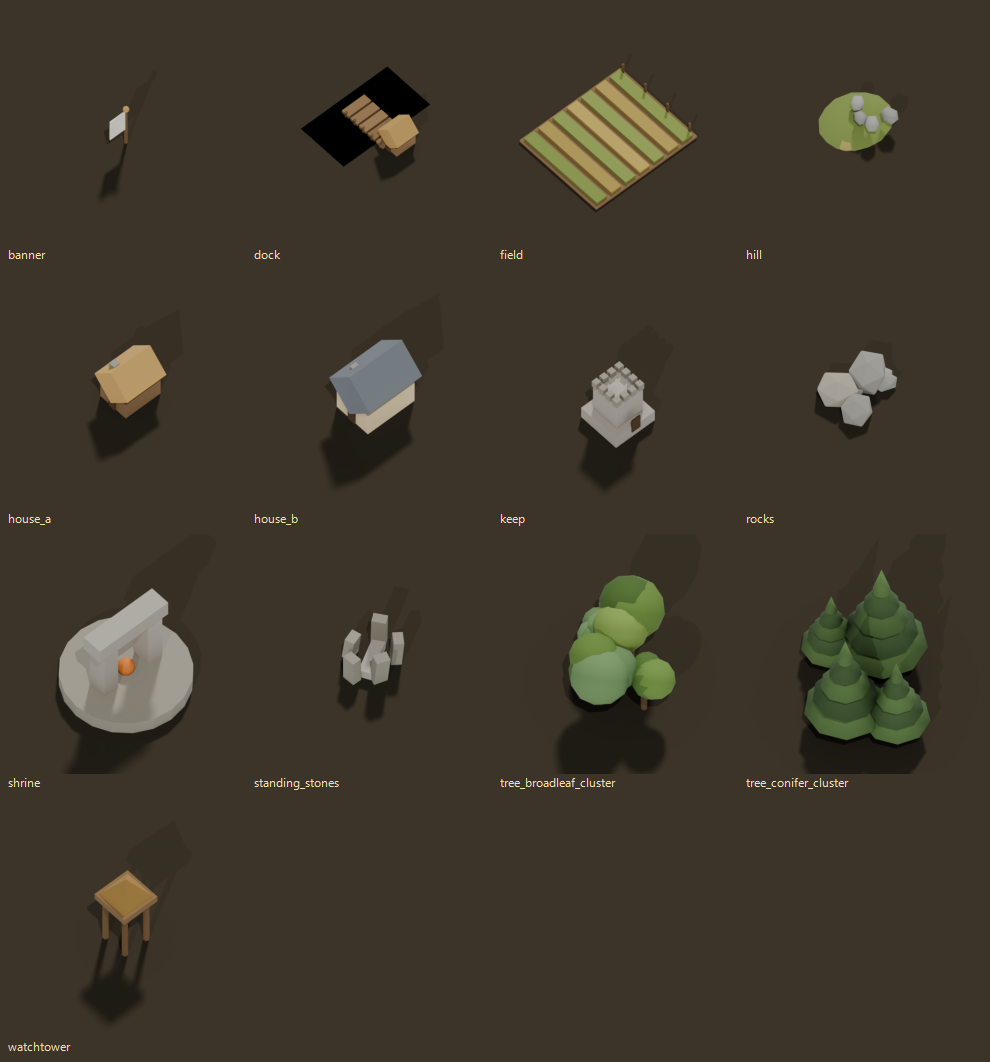
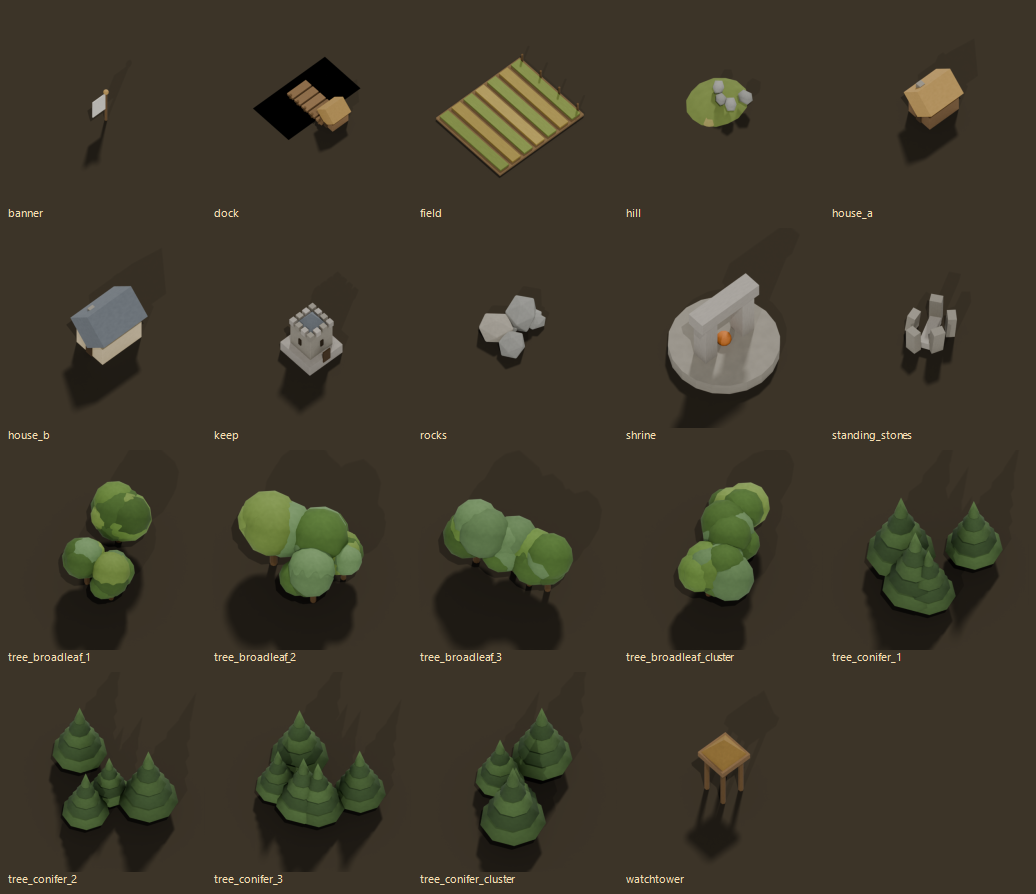
docs: Production Diorama Bridge V1 — state + in-engine bridge evidence
PROJECT_STATE milestone + DIORAMA_PROTOTYPE.md production-bridge section (run path, honest
controls, fallbacks, art pass). Evidence captured via the REAL overlay flow in-engine:
01 atlas → 02 region lens → 03 diorama bridge (same region) → 04 wild fallback, plus refreshed
standalone showcase + asset contact sheet.

diff --git a/docs/visual_pass/DIORAMA_PROTOTYPE.md b/docs/visual_pass/DIORAMA_PROTOTYPE.md
@@ -6,10 +6,39 @@ atlas* — and to honestly measure the gap. This is a **prototype**, not product
 direction and an asset pipeline, it does not ship North Star visuals.
 
 ## How to run it
-- In the viewer: press **F3** (Esc / "← Atlas" returns to the atlas).
-- Standalone: `<godot-mono> --path godot res://DioramaView.tscn`
-- Self-capture (writes `diorama_prototype.png` here, never touches the save):
-  `LM_DIORAMA_SHOT=<dir> <godot-mono> --path godot res://DioramaView.tscn`
+- **Production bridge (the real path):** inspect a region (or a site) in the atlas, then click
+  **"⛰ Enter the Diorama"** in the Region Lens. It opens as a **read-only overlay** over the live
+  world for that selected region. **Esc** or **"← Back to the Atlas"** closes it — the atlas,
+  follows, and save are untouched underneath (it is an overlay, never a scene swap).
+- **F3** opens the diorama for the currently selected region (or the most-built held region if
+  nothing is selected) — handy dev shortcut.
+- **Standalone/dev:** `<godot-mono> --path godot res://DioramaView.tscn` (builds its own seed-7
+  world). Self-capture: `LM_DIORAMA_SHOT=<dir> <godot-mono> --path godot res://DioramaView.tscn`.
+
+## Production Bridge V1 (2026-06-14)
+The sandboxed F3 prototype became an honest bridge for *any* region of the *live* world:
+- **Wired to the live world** — `DioramaView` now takes `SourceWorld` + `SourceRegionId` from
+  Main and renders the currently selected region at the live year (souls/tales/holder/harvest all
+  read live). No more seed-7-only.
+- **Entry/exit** — a "⛰ Enter the Diorama" button in the Region Lens (region & site context);
+  `Main.OpenDiorama`/`CloseDiorama` add/free it as a full-rect overlay (no scene swap, save intact).
+- **Honest controls** — the fake 7-disc action bar (Inspect/Follow/**Curse/Bless/Prophecy/Plague/
+  Terrain**) is **gone**. The real god-hand verbs stay in the atlas inspector where they journal to
+  the save; the diorama bar now reads "READ-ONLY CHRONICLE VIEW · ART IN PROGRESS" + a real
+  "← Back to the Atlas". No mock tool is presented as real.
+- **Fallbacks** — wild/unclaimed regions render with **no banner** and honest "unclaimed country"
+  copy; no-sites regions show "an unwritten country"; sparse regions still frame on their centroid.
+- **Art-fidelity pass (small):** fuller, sun-kissed, multi-lobe broadleaf canopies (better
+  silhouette/texture) and a better-reading keep (slate roof, arrow-slit windows, two-tone stone).
+
+## Evidence files
+- `01_atlas.png` — the live atlas (production viewer).
+- `02_region_lens.png` — the selected region's lens in the atlas.
+- `03_diorama_bridge.png` — **the SAME selected region in the diorama bridge** (real overlay flow,
+  live world, captured in-engine).
+- `04_diorama_fallback.png` — a wild/unclaimed region in the diorama (honest fallback: no banner).
+- `diorama_prototype.png` — standalone showcase (seed-7, year 462, richest region).
+- `diorama_assets_contact.png` — the Blender miniatures (with the canopy + keep improvements).
 
 ## What it is
 - A dedicated Godot view that builds its own deterministic `World` (seed 7, ticked to year 462),

diff --git a/PROJECT_STATE.md b/PROJECT_STATE.md
@@ -408,6 +408,25 @@ Architecture rule: `src/LivingMyth.Sim/` is a standalone class library with ZERO
       North Star references — closing 5→7+ is art labor, not code. Viewer/read-model + tooling only —
       **verify held exactly 823/559/910/632**, all 9 console gates green, both builds clean. Evidence:
       `docs/visual_pass/DIORAMA_PROTOTYPE.md` (+ prototype / before-after / asset contact sheet).
+- [x] Production Diorama Bridge V1 (2026-06-14, viewer + small art pass + docs): turned the
+      sandboxed F3 diorama prototype into an honest production bridge for selected regions, without
+      replacing the atlas. **Wired to the live world** — `DioramaView` takes `SourceWorld` +
+      `SourceRegionId` from Main and renders the *currently selected region* at the *live year*
+      (souls/tales/holder/harvest read live), not a seed-7-only world. **Entry/exit** — a
+      "⛰ Enter the Diorama" button in the Region Lens (region & site context) + `Main.OpenDiorama`/
+      `CloseDiorama` open it as a full-rect **read-only overlay** (NOT a scene swap — atlas, follows,
+      and save stay intact underneath); F3 kept as a dev shortcut for the selected/most-built region;
+      Esc / "← Back to the Atlas" closes. **Honest controls** — the fake 7-disc action bar
+      (Curse/Bless/**Prophecy/Plague/Terrain** mocks) is removed; the real god-hand verbs stay in the
+      atlas inspector where they journal to the save, and the diorama bar now reads "READ-ONLY
+      CHRONICLE VIEW · ART IN PROGRESS" + a real Back button — no mock tool presented as real.
+      **Fallbacks** — wild/unclaimed regions render with no banner + "unclaimed country"; no-sites
+      regions show "an unwritten country"; sparse regions frame on their centroid. **Small art pass**
+      — fuller sun-kissed multi-lobe broadleaf canopies + a better-reading keep (slate roof,
+      arrow-slit windows, two-tone stone). Evidence captured via the REAL overlay flow in-engine
+      (`docs/visual_pass/` 01 atlas → 02 region lens → 03 diorama bridge [same region] → 04 wild
+      fallback). Viewer/read-model + offline-asset only — **verify held exactly 823/559/910/632**,
+      all 9 console gates green, both builds clean (0 warnings). Sim determinism untouched.
 - [ ] Later — **diorama art fidelity** (turn the Blender blockout props into hand-finished
       illustrated assets: textured albedo, painterly canopies, roof/timber/stone detail — the 5→7+
       gap; or adopt licensed grounded-medieval assets per the asset-scout policy); person↔site
